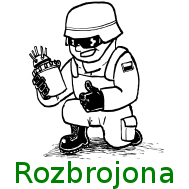
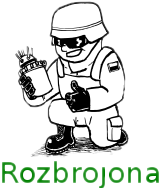
style - obrazki quiz

Changed region(s): [[0.0, 0.0, 1.0, 1.0]]

diff --git a/EduBot/EduClient/src/app/views/module-view/quiz-view/question-view/question-view.component.css b/EduBot/EduClient/src/app/views/module-view/quiz-view/question-view/question-view.component.css
@@ -3,6 +3,7 @@
 }
 
 .card-block{
+    min-height: 190px;
     background-color: #f7f7f7 !important;
 }
 
@@ -50,7 +51,7 @@
 
 .img-style{
     max-width: inherit; 
-    max-height: 100px !important;
+    max-height: 150px !important;
 }
 
 .fa-check{
